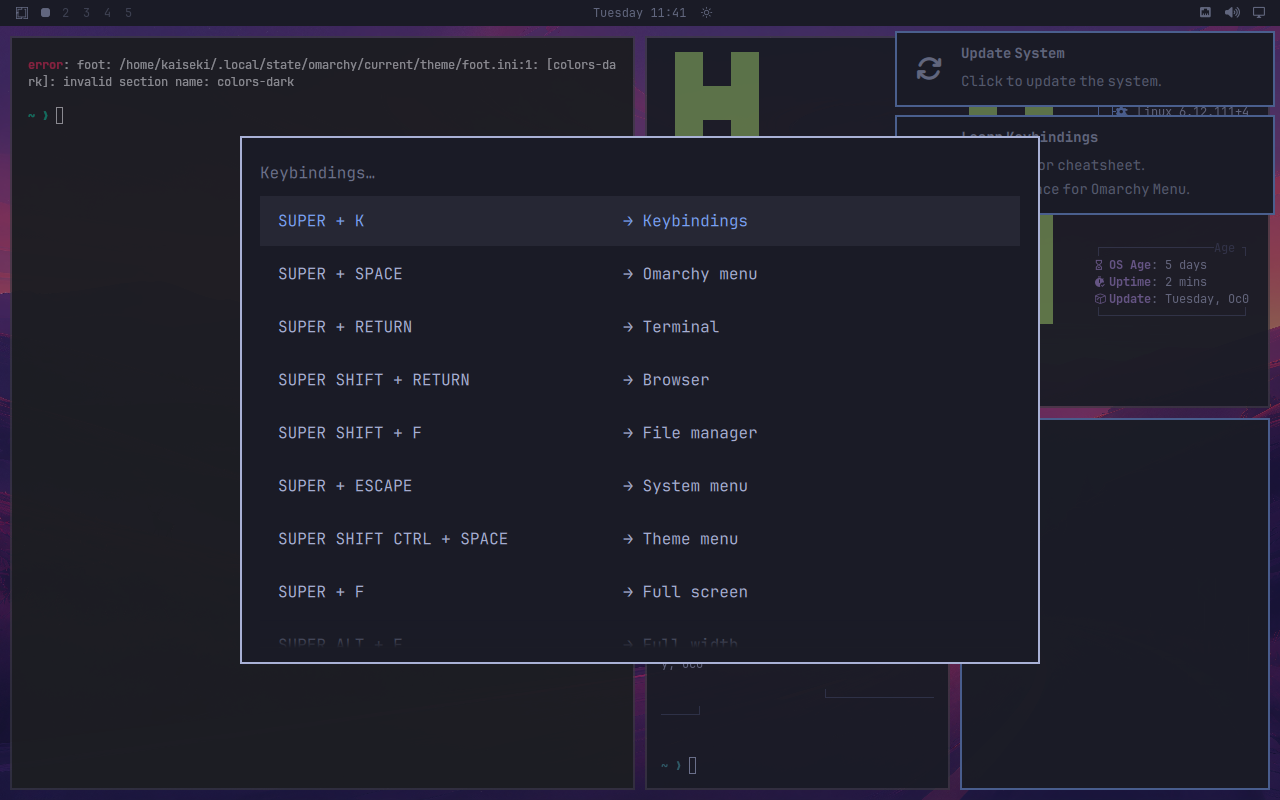
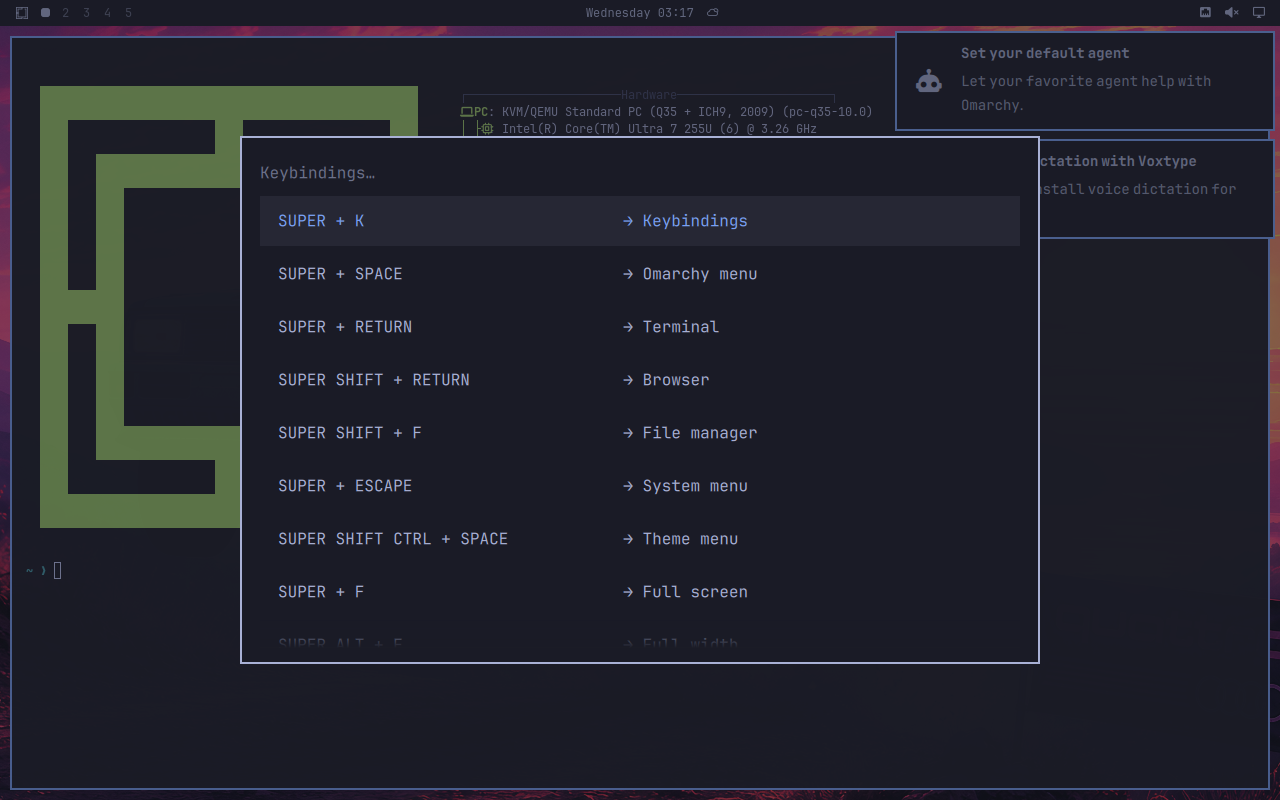
Screenshots retaken on Debian testing; tests verified on the hosted-repository image
- docs/img: desktop, menu, launcher, keybindings, theme switch, lock screen and
  the installer frames retaken on a machine made by the installer (kernel 7.2,
  root on ZFS), time zone Asia/Dubai
- tests/screenshots retakes them; tests/run-installer walks the time zone list
  (the form pre-selects by location now), checks the zone, and has
  KAISEKI_SLOW for slow hosts
- tests/update.sh: the temporary repository gets the real one's priority
- vm/vm refuses option-like words and its own commands as machine names
- docs/UPDATE.md: installer and update verified on an image built from the
  published repository

Changed region(s): [[0.0, 0.0, 0.625, 0.8438], [0.5938, 0.0312, 1.0, 0.4062], [0.0, 0.4062, 1.0, 1.0]]

diff --git a/docs/UPDATE.md b/docs/UPDATE.md
@@ -52,19 +52,18 @@ Omarchy's indicator offers the update. Rebuilding the installer image is only ne
 
 ## Verified, and not
 
-2026-10-06, `tests/run-update` on a machine made by the installer, with the newer package in a local repository:
+2026-10-07, `tests/run-installer` then `tests/run-update`, on a machine installed from an image that was itself
+built from the published repository:
 
-- nothing to update at first; after a newer `omarchy` package appears, Omarchy reports `4.0.4-1 -> 4.0.4-1.1`;
-- `omarchy-update -y` exits 0; a ZFS snapshot exists and does not contain the new package's files;
-- the package is upgraded, nothing is left pending, the session survives; the machine reboots cleanly afterwards.
-
-Also verified: `apt` on Debian testing accepts the published repository and its signature, and the image
-build installs kaiseki's packages from it.
+- the machine's `omarchy` package comes from `https://files.este.systems/kaiseki`; no repository copy is on its disk;
+- nothing to update at first; after a newer `omarchy` package appears (in a second, local repository the test
+  adds for the purpose), Omarchy reports `4.0.4-1 -> 4.0.4-1.1`;
+- `omarchy-update -y` exits 0 without stopping at a prompt; a ZFS snapshot exists and does not contain the new
+  package's files;
+- the package is upgraded, nothing is left pending, the session survives.
 
 Not verified yet:
 
-- the full installer and update run on an image built from the published repository (in progress when this
-  was written);
 - an update that brings a new kernel (ZFS module rebuild, the copies on the EFI partition);
 - a real new Omarchy release going through fetch, rebuild, publish and update;
 - rolling back to an update snapshot from ZFSBootMenu.

diff --git a/docs/PORT.md b/docs/PORT.md
@@ -2,6 +2,7 @@
 
 > Written on Debian 13, on the first day. The base has since moved to Debian testing, where the rebuilds and
 > the Qt patch below are not needed (README), and most of the packages listed as missing are built.
+> The screenshots were retaken on 2026-10-07 on a machine made by the installer: Debian testing, root on ZFS.
 
 Run on 2026-10-06 in a test VM. Follows [TRIAL.md](TRIAL.md), which only proved that the compositor and
 the shell start. Here Omarchy's whole install pipeline runs, unmodified, and the result is the real desktop.
